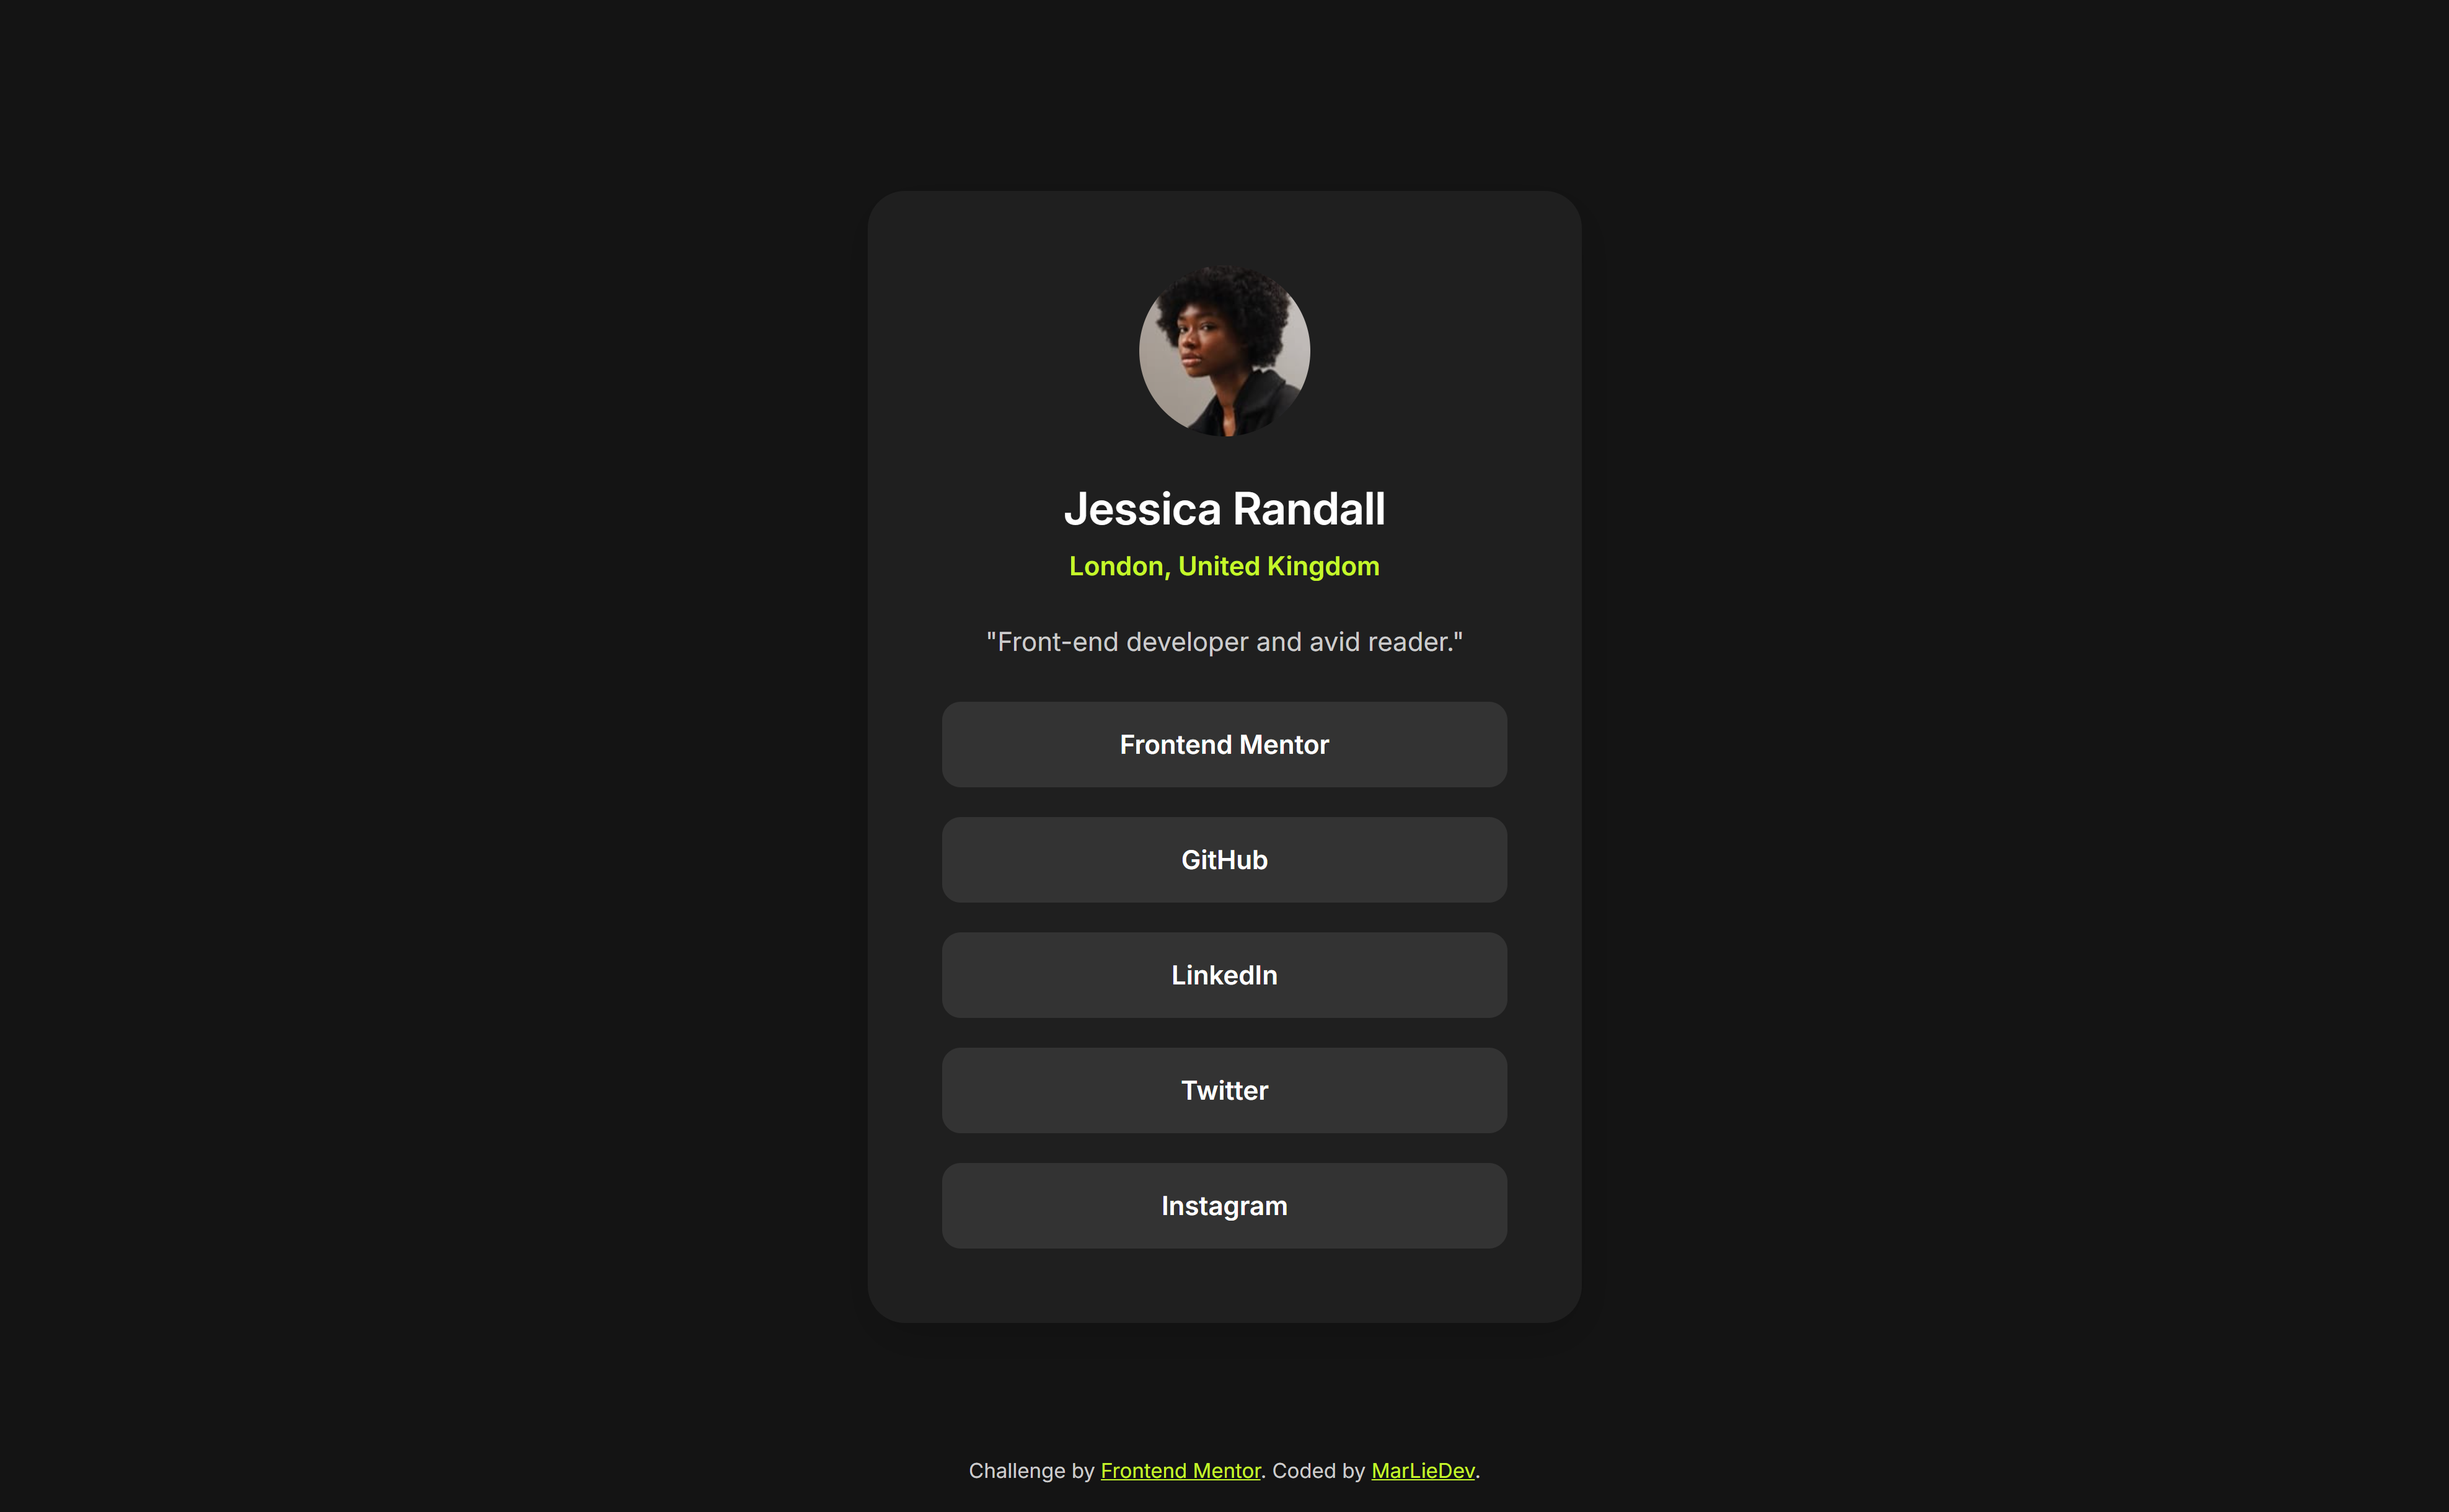
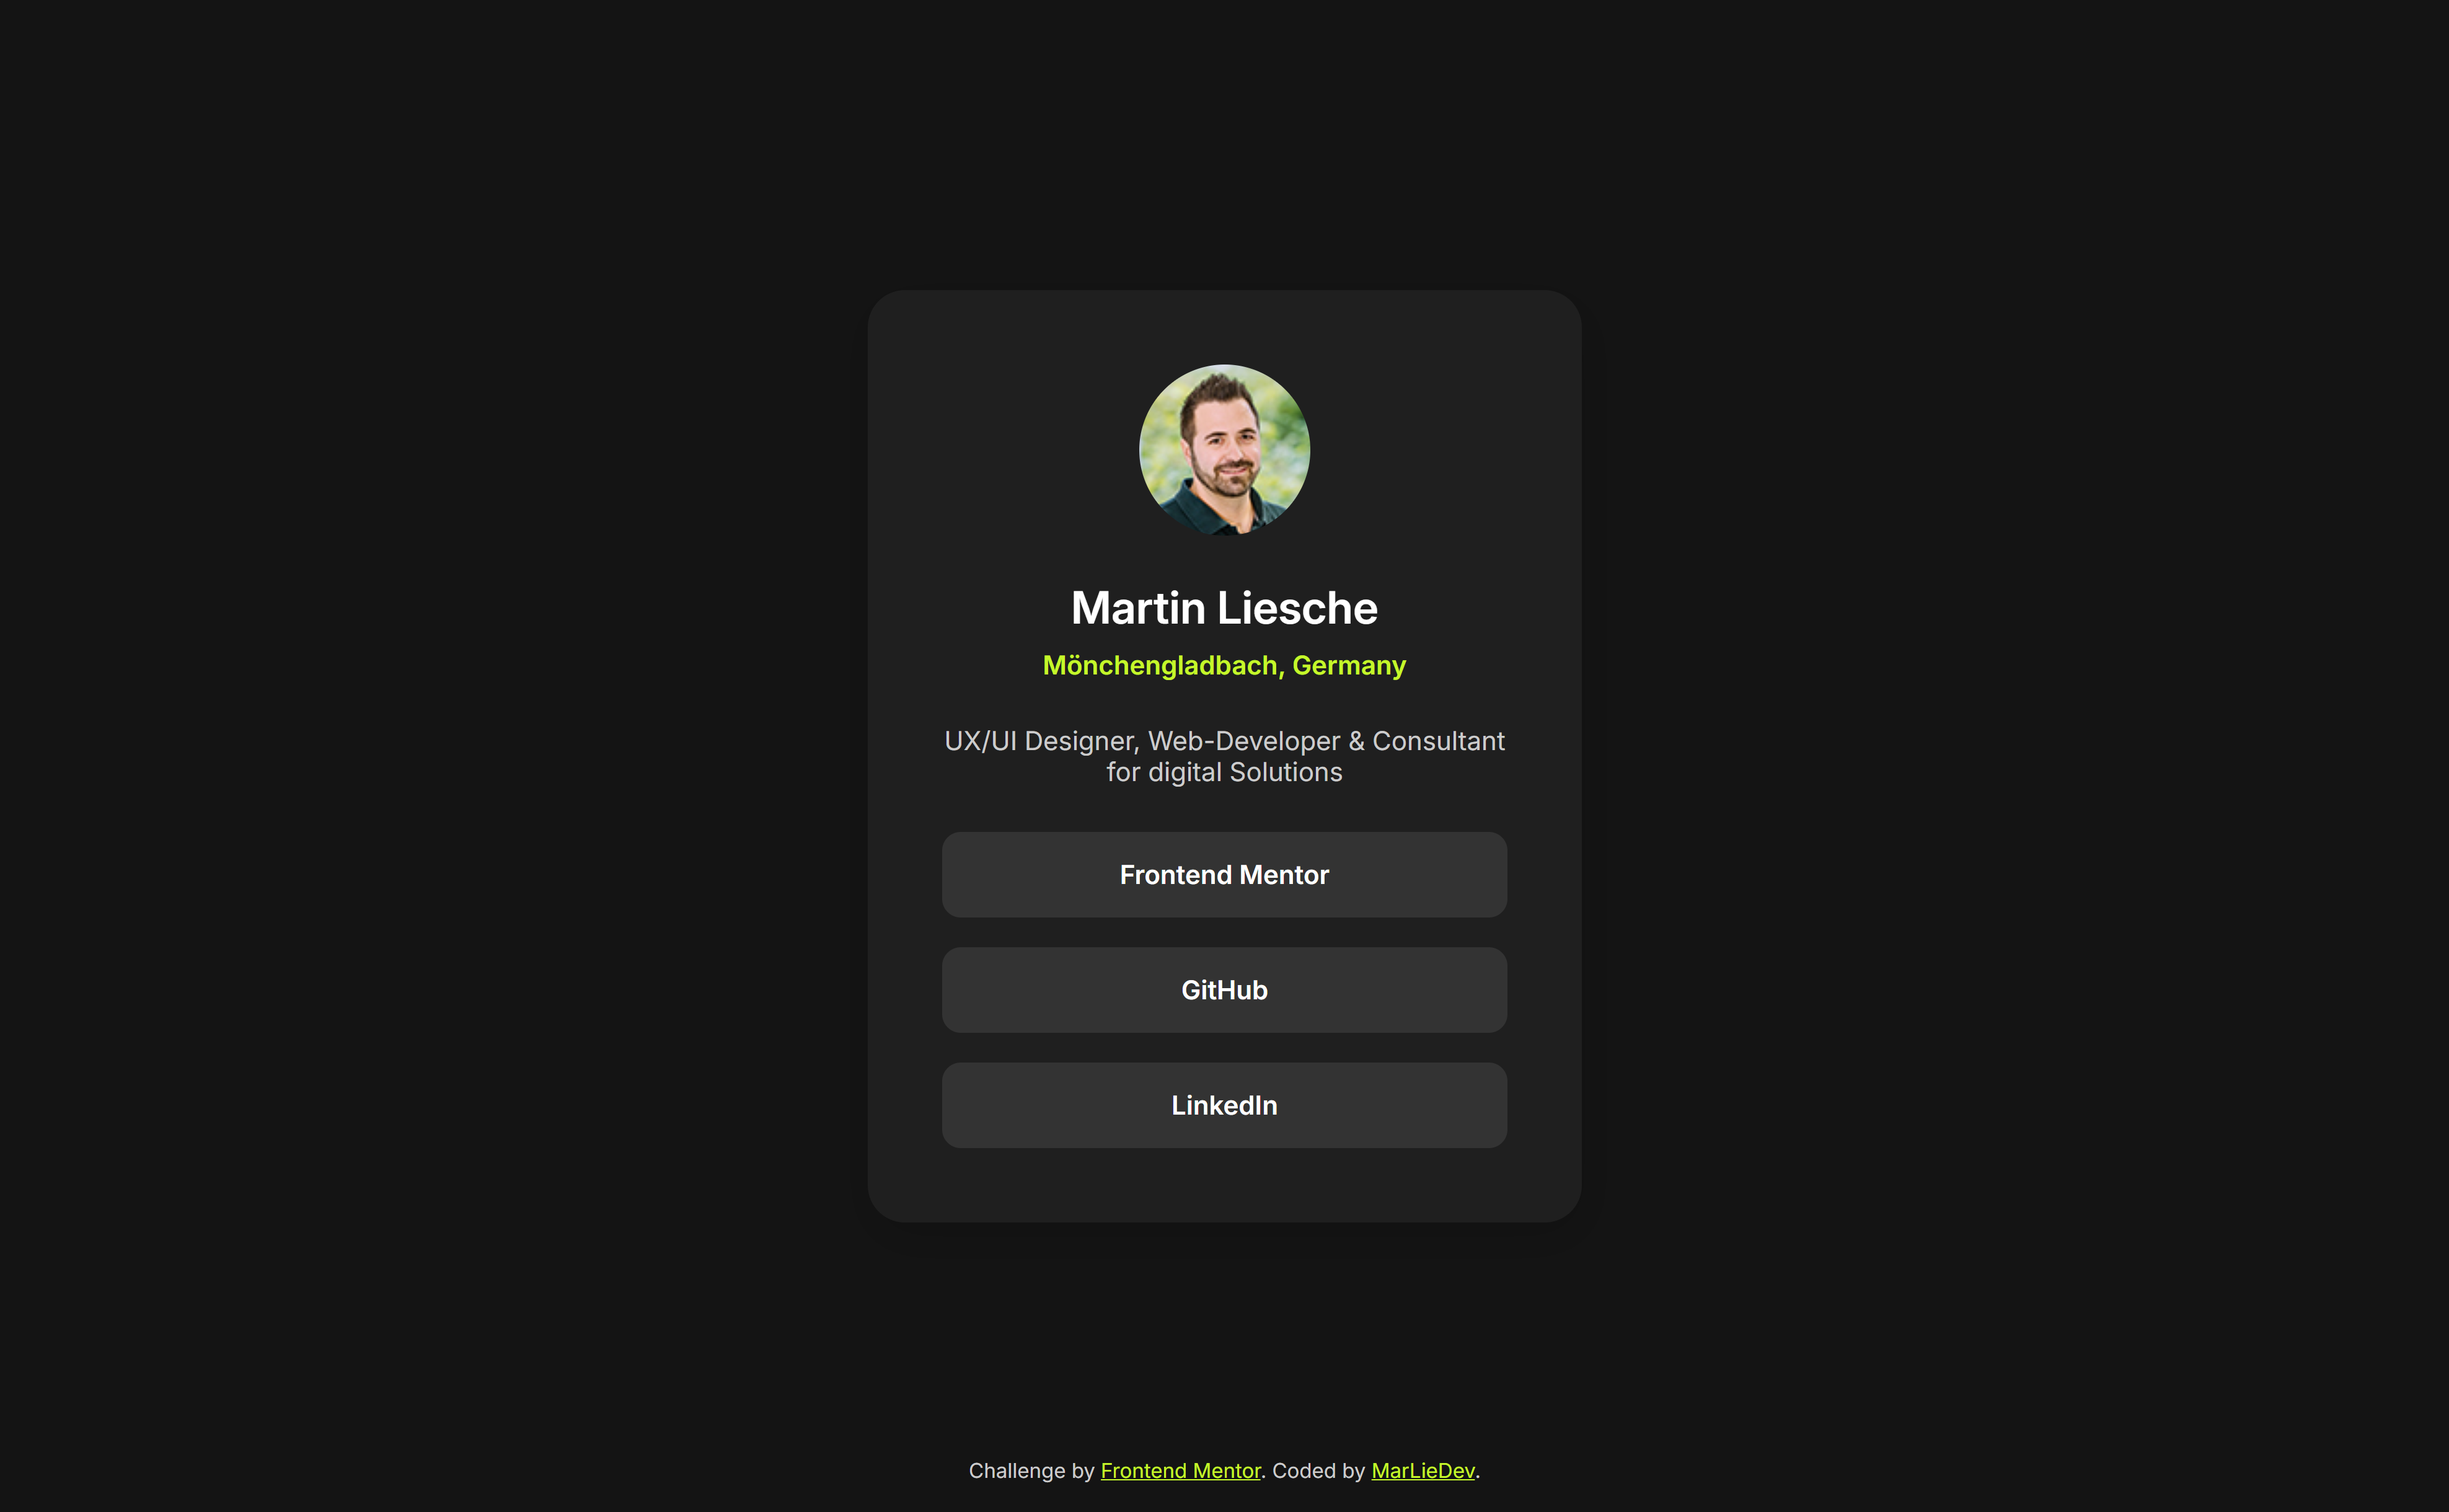
fixed some issues and added new screenshot

diff --git a/index.html b/index.html
@@ -17,10 +17,10 @@
 </head>
 
 <body>
-  <main roler="main" class="wrapper">
+  <main role="main" class="wrapper">
     <!-- Social Links Profile Component -->
     <div class="social-links-profile">
-      <img width="92px" height="92px" class="social-links-profile__avatar" loading="lazy"
+      <img width="92" height="92" class="social-links-profile__avatar" loading="lazy"
         src="./assets/images/avatar-ml-92x92px.jpg" alt="avatar image of jessica">
       <div class="social-links-profile__info">
         <h1>Martin Liesche</h1>
@@ -37,7 +37,7 @@
       </div>
   </main>
   <!-- Disclaimer -->
-  <footer role="contentinfo" class="attribution">
+  <footer class="attribution">
     Challenge by <a href="https://www.frontendmentor.io?ref=challenge" target="_blank">Frontend Mentor</a>.
     Coded by <a href="https://www.frontendmentor.io/profile/marliedev" target="_blank">MarLieDev</a>.
   </footer>
